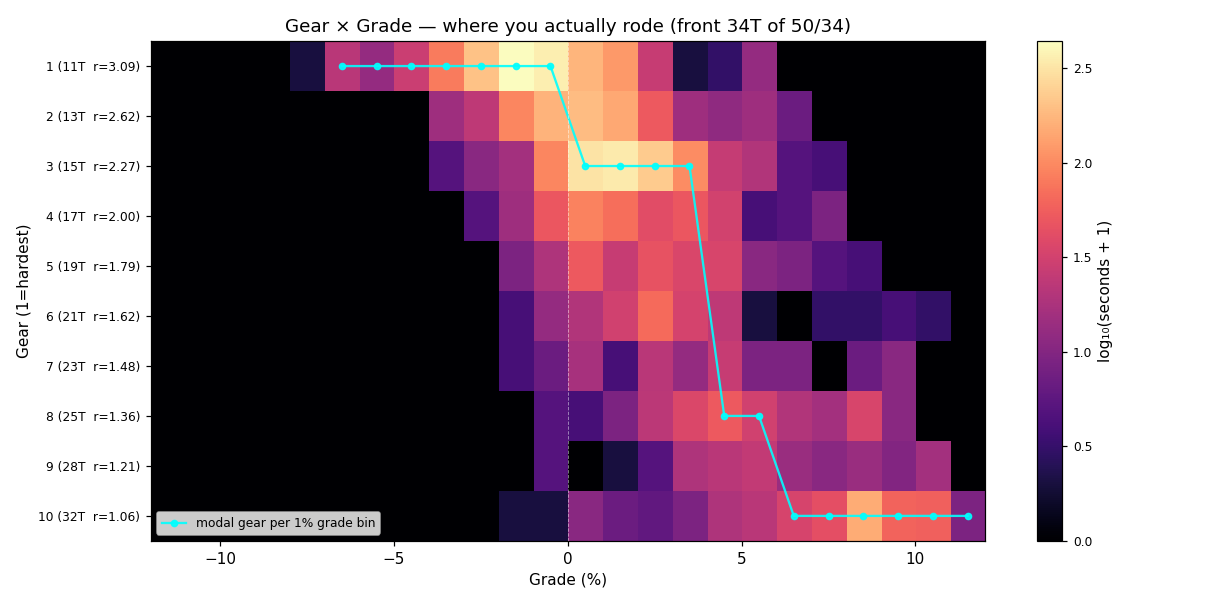
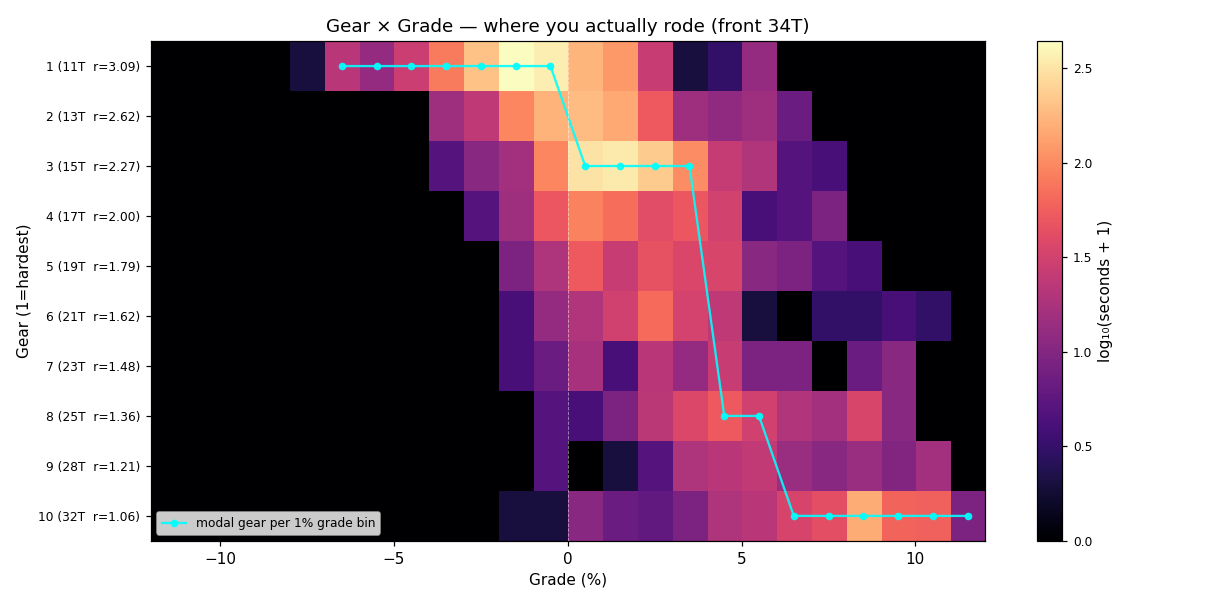
Add report: 20260426_1732_18271078752

Changed region(s): [[0.2446, 0.0298, 0.7033, 0.0595]]

diff --git a/rides/20260426_1732_18271078752/index.md b/rides/20260426_1732_18271078752/index.md
@@ -50,7 +50,7 @@ Longer than recent average (20.6 km). Slower pace than recent (-3.6 km/h).
 
 ![cadence × grade](cad_grade.png)
 
-## Gear selection — front **34T** (of 50/34 compact crankset)
+## Gear selection — front **34T**
 
 ![gear distribution](gear_dist.png)
 
@@ -87,6 +87,15 @@ Longer than recent average (20.6 km). Slower pace than recent (-3.6 km/h).
 - Most-used cog: 11T (29% of moving time).
 - On rolling climbs (3-6%): mostly 15T.
 
+## Front ring
+
+Mode: **tag override → 34T**
+
+- Time on **50T**: 0:00  (avg confidence 0%)
+- Time on **34T**: 1:37:46  (avg confidence 100%)
+- Detected shifts: **0**
+
+
 ## HR zones
 
 ![hr zones](hr_zones.png)
@@ -102,4 +111,4 @@ LTHR assumed: **170 bpm** (configurable in `secrets/profile.json`).
 
 ---
 
-_Generated by bike-report. Bike: 2020 Allez Sport — Praxis Alba 50/34 compact, Shimano HG500 11-32T 10-spd. This ride analyzed assuming **34T** front. Override per-ride with `#34T` or `#50T` in Strava description._
+_Generated by bike-report. Front: **34T**. Override default with `#34T` or `#50T` in Strava description._
